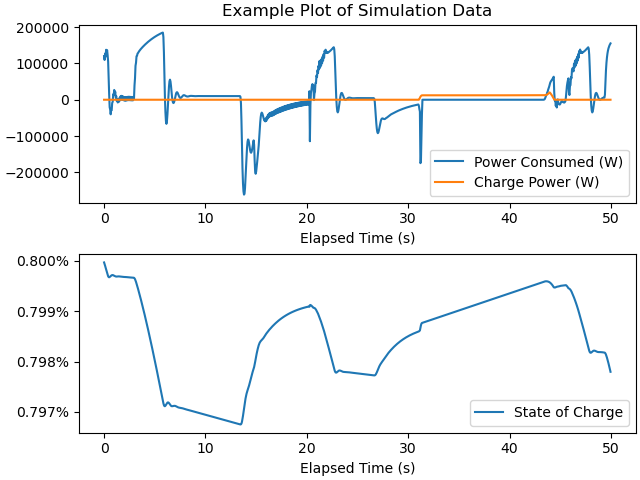
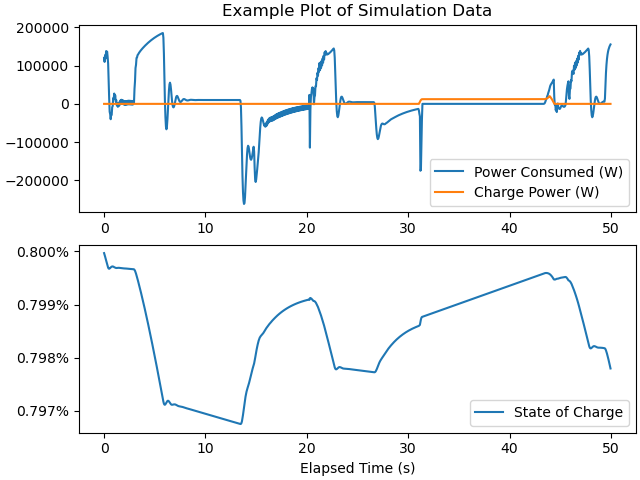
Minor change to plot

diff --git a/plots/power_charge_soc.py b/plots/power_charge_soc.py
@@ -48,8 +48,8 @@ for attr, ax in zip(attrs, axs):
 plt.show()
 
 fig, axs = plt.subplots(2, layout='constrained')
-vInfoSlice.plot('Elapsed Time (s)', 'Power Consumed (W)', ax=axs[0])
-vInfoSlice.plot('Elapsed Time (s)', 'Charge Power (W)', ax=axs[0])
+vInfoSlice.plot('Elapsed Time (s)', 'Power Consumed (W)', ax=axs[0], xlabel='')
+vInfoSlice.plot('Elapsed Time (s)', 'Charge Power (W)', ax=axs[0], xlabel='')
 vInfoSlice.plot('Elapsed Time (s)', 'State of Charge', ax=axs[1])
 axs[0].set_title('Example Plot of Simulation Data')
 axs[1].yaxis.set_major_formatter(PercentFormatter(decimals=3))
